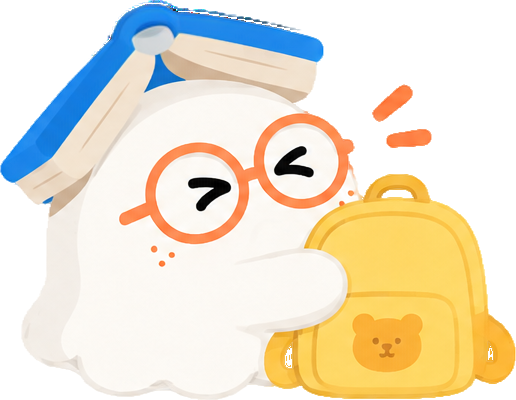
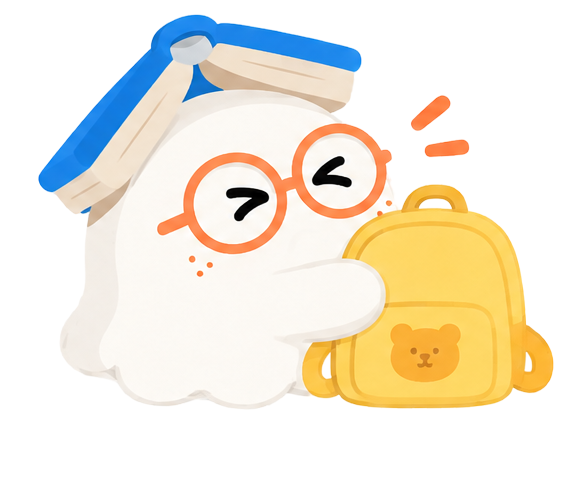
feat: 홈 노랑/보라 카드를 새 디자인으로 바꾸고 파랑 '떼쓰기 · 훈육' 카드 추가
- 노랑: 등원 · 적응 / 유치원에 가기 싫어요
- 보라: 이별 · 죽음 / 반려견과 이별했어요
- 파랑(신규): 떼쓰기 · 훈육 / 갑자기 짜증이 폭발했어요, 팝업 말풍선 아이콘도 파랑으로 추가

diff --git a/src/features/home/scenarios.jsx b/src/features/home/scenarios.jsx
@@ -1,12 +1,14 @@
 import scenarioFriend from '../../assets/images/home/scenario-friend.png';
 import scenarioEmotion from '../../assets/images/home/scenario-emotion.png';
 import scenarioKindergarten from '../../assets/images/home/scenario-kindergarten.png';
-import scenarioHabit from '../../assets/images/home/mascot-corner.png';
+import scenarioHabit from '../../assets/images/home/scenario-habit.png';
+import scenarioTantrum from '../../assets/images/home/scenario-tantrum.png';
 
 // 홈의 추천 카드와 '부모들의 이야기' 목록이 함께 쓰는 시나리오 목록이에요.
 export const scenarios = [
   { id: 'friend', category: '친구 관계', accessibleTitle: '친구가 장난감을 빼앗았어요', title: <>친구가 장난감을<br />빼앗았어요</>, description: '아이에게 어떻게 말해줘야 할까요?', image: scenarioFriend, color: 'friend', accentColor: '#ff7c68' },
   { id: 'emotion', category: '가족', accessibleTitle: '동생이 태어났어요', title: '동생이 태어났어요', description: '아이의 마음을 어떻게 물어볼까요?', image: scenarioEmotion, color: 'emotion', accentColor: '#65d0a5' },
-  { id: 'kindergarten', category: '새로운 환경', accessibleTitle: '유치원에 가기 싫다고 할 때', title: <>유치원에 가기<br />싫다고 할 때</>, description: '어떤 말로 안심시켜 줄까요?', image: scenarioKindergarten, color: 'kindergarten', accentColor: '#ffcf55' },
-  { id: 'habit', category: '생활 습관', accessibleTitle: '실수하고 자꾸 숨기려고 할 때', title: <>실수하고 자꾸<br />숨기려고 할 때</>, description: '어떤 말로 안심시켜 줄까요?', image: scenarioHabit, color: 'habit', accentColor: '#9e95ff' },
+  { id: 'kindergarten', category: '등원 · 적응', accessibleTitle: '유치원에 가기 싫어요', title: '유치원에 가기 싫어요', description: '어떤 말로 안심시켜 줄까요?', image: scenarioKindergarten, color: 'kindergarten', accentColor: '#ffcf55' },
+  { id: 'habit', category: '이별 · 죽음', accessibleTitle: '반려견과 이별했어요', title: '반려견과 이별했어요', description: '어떤 말로 위로해 줄까요?', image: scenarioHabit, color: 'habit', accentColor: '#9e95ff' },
+  { id: 'tantrum', category: '떼쓰기 · 훈육', accessibleTitle: '갑자기 짜증이 폭발했어요', title: <>갑자기 짜증이<br />폭발했어요</>, description: '아이에게 어떻게 말해줘야 할까요?', image: scenarioTantrum, color: 'tantrum', accentColor: '#4ab1ff' },
 ];

diff --git a/src/pages/DashboardPage/DashboardPage.module.css b/src/pages/DashboardPage/DashboardPage.module.css
@@ -196,6 +196,7 @@
 .emotion { background: #65d0a5; }
 .kindergarten { background: #ffcf55; }
 .habit { background: #9e95ff; }
+.tantrum { background: #4ab1ff; }
 
 .category {
   z-index: 1;
@@ -246,17 +247,24 @@
 }
 
 .kindergarten .cardImage {
-  bottom: 17.5px;
-  left: 58px;
-  width: 133px;
-  height: 103px;
+  bottom: 12.2px;
+  left: 50.3px;
+  width: 150.8px;
+  height: 128.1px;
 }
 
 .habit .cardImage {
-  bottom: -4px;
-  left: 14px;
-  width: 222px;
-  height: 148px;
+  bottom: 12.2px;
+  left: 62px;
+  width: 127.1px;
+  height: 146.7px;
+}
+
+.tantrum .cardImage {
+  bottom: 8px;
+  left: 56.8px;
+  width: 132.3px;
+  height: 135.4px;
 }
 
 @media (min-width: 901px) and (max-height: 950px) {
@@ -358,17 +366,24 @@
   }
 
   .kindergarten .cardImage {
-    bottom: clamp(14px, 2.01vh, 17.5px);
-    left: clamp(48px, 6.66vh, 58px);
-    width: clamp(109px, 15.29vh, 133px);
-    height: clamp(84px, 11.84vh, 103px);
+    bottom: clamp(10px, 1.4vh, 12.2px);
+    left: clamp(41.1px, 5.78vh, 50.3px);
+    width: clamp(123.4px, 17.34vh, 150.8px);
+    height: clamp(104.8px, 14.73vh, 128.1px);
   }
 
   .habit .cardImage {
-    bottom: clamp(-4px, -0.46vh, -3px);
-    left: clamp(12px, 1.61vh, 14px);
-    width: clamp(182px, 25.52vh, 222px);
-    height: clamp(121px, 17.02vh, 148px);
+    bottom: clamp(10px, 1.4vh, 12.2px);
+    left: clamp(50.7px, 7.12vh, 62px);
+    width: clamp(104px, 14.61vh, 127.1px);
+    height: clamp(120.1px, 16.87vh, 146.7px);
+  }
+
+  .tantrum .cardImage {
+    bottom: clamp(6.6px, 0.92vh, 8px);
+    left: clamp(46.5px, 6.53vh, 56.8px);
+    width: clamp(108.2px, 15.21vh, 132.3px);
+    height: clamp(110.8px, 15.56vh, 135.4px);
   }
 }
 
@@ -476,17 +491,24 @@
   }
 
   .kindergarten .cardImage {
-    bottom: 16px;
-    left: 53px;
-    width: 122px;
-    height: 95px;
+    bottom: 11.2px;
+    left: 46.2px;
+    width: 138.8px;
+    height: 117.9px;
   }
 
   .habit .cardImage {
-    bottom: -4px;
-    left: 13px;
-    width: 204px;
-    height: 136px;
+    bottom: 11.2px;
+    left: 57px;
+    width: 116.9px;
+    height: 135px;
+  }
+
+  .tantrum .cardImage {
+    bottom: 7.4px;
+    left: 52.3px;
+    width: 121.7px;
+    height: 124.5px;
   }
 }
 

diff --git a/src/pages/ScenarioListPage/ScenarioListPage.module.css b/src/pages/ScenarioListPage/ScenarioListPage.module.css
@@ -187,6 +187,7 @@
 .emotion { background: #65d0a5; }
 .kindergarten { background: #ffcf55; }
 .habit { background: #9e95ff; }
+.tantrum { background: #4ab1ff; }
 
 .category {
   z-index: 1;
@@ -240,17 +241,24 @@
 }
 
 .kindergarten .cardImage {
-  bottom: calc(17.5 * var(--u));
-  left: calc(58 * var(--u));
-  width: calc(133 * var(--u));
-  height: calc(103 * var(--u));
+  bottom: calc(12.2 * var(--u));
+  left: calc(50.3 * var(--u));
+  width: calc(150.8 * var(--u));
+  height: calc(128.1 * var(--u));
 }
 
 .habit .cardImage {
-  bottom: calc(-4 * var(--u));
-  left: calc(14 * var(--u));
-  width: calc(222 * var(--u));
-  height: calc(148 * var(--u));
+  bottom: calc(12.2 * var(--u));
+  left: calc(62 * var(--u));
+  width: calc(127.1 * var(--u));
+  height: calc(146.7 * var(--u));
+}
+
+.tantrum .cardImage {
+  bottom: calc(8 * var(--u));
+  left: calc(56.8 * var(--u));
+  width: calc(132.3 * var(--u));
+  height: calc(135.4 * var(--u));
 }
 
 @media (max-width: 900px) {

diff --git a/src/features/home/components/HomeScenarioModal.jsx b/src/features/home/components/HomeScenarioModal.jsx
@@ -4,6 +4,7 @@ import dialogueFriend from '../../../assets/icons/scenario-dialogue-friend.svg';
 import dialogueEmotion from '../../../assets/icons/scenario-dialogue-emotion.svg';
 import dialogueKindergarten from '../../../assets/icons/scenario-dialogue.svg';
 import dialogueHabit from '../../../assets/icons/scenario-dialogue-habit.svg';
+import dialogueTantrum from '../../../assets/icons/scenario-dialogue-tantrum.svg';
 import { scenarioPopupContent } from '../scenarioPopupContent';
 import styles from './HomeScenarioModal.module.css';
 
@@ -16,6 +17,7 @@ function HomeScenarioModal({ scenario, onClose, onStart, requiresLogin = false }
     emotion: dialogueEmotion,
     kindergarten: dialogueKindergarten,
     habit: dialogueHabit,
+    tantrum: dialogueTantrum,
   };
 
   useEffect(() => {

diff --git a/src/features/home/scenarioPopupContent.js b/src/features/home/scenarioPopupContent.js
@@ -28,5 +28,6 @@ export const scenarioPopupContent = {
   emotion: sharedPopupContent,
   kindergarten: sharedPopupContent,
   habit: sharedPopupContent,
+  tantrum: sharedPopupContent,
 };
 
